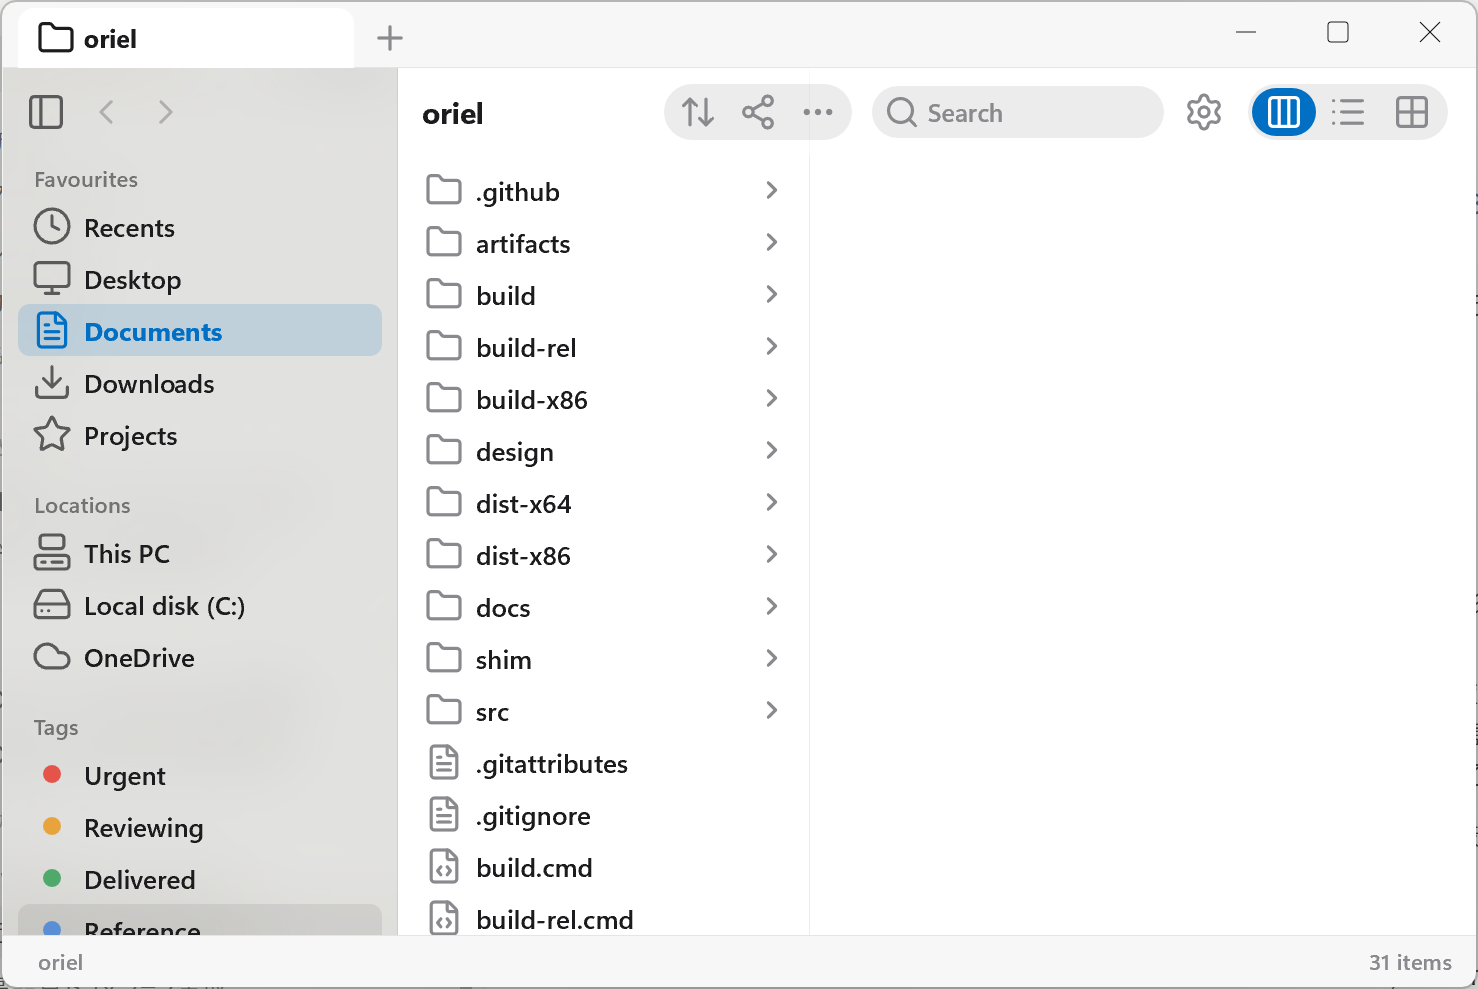
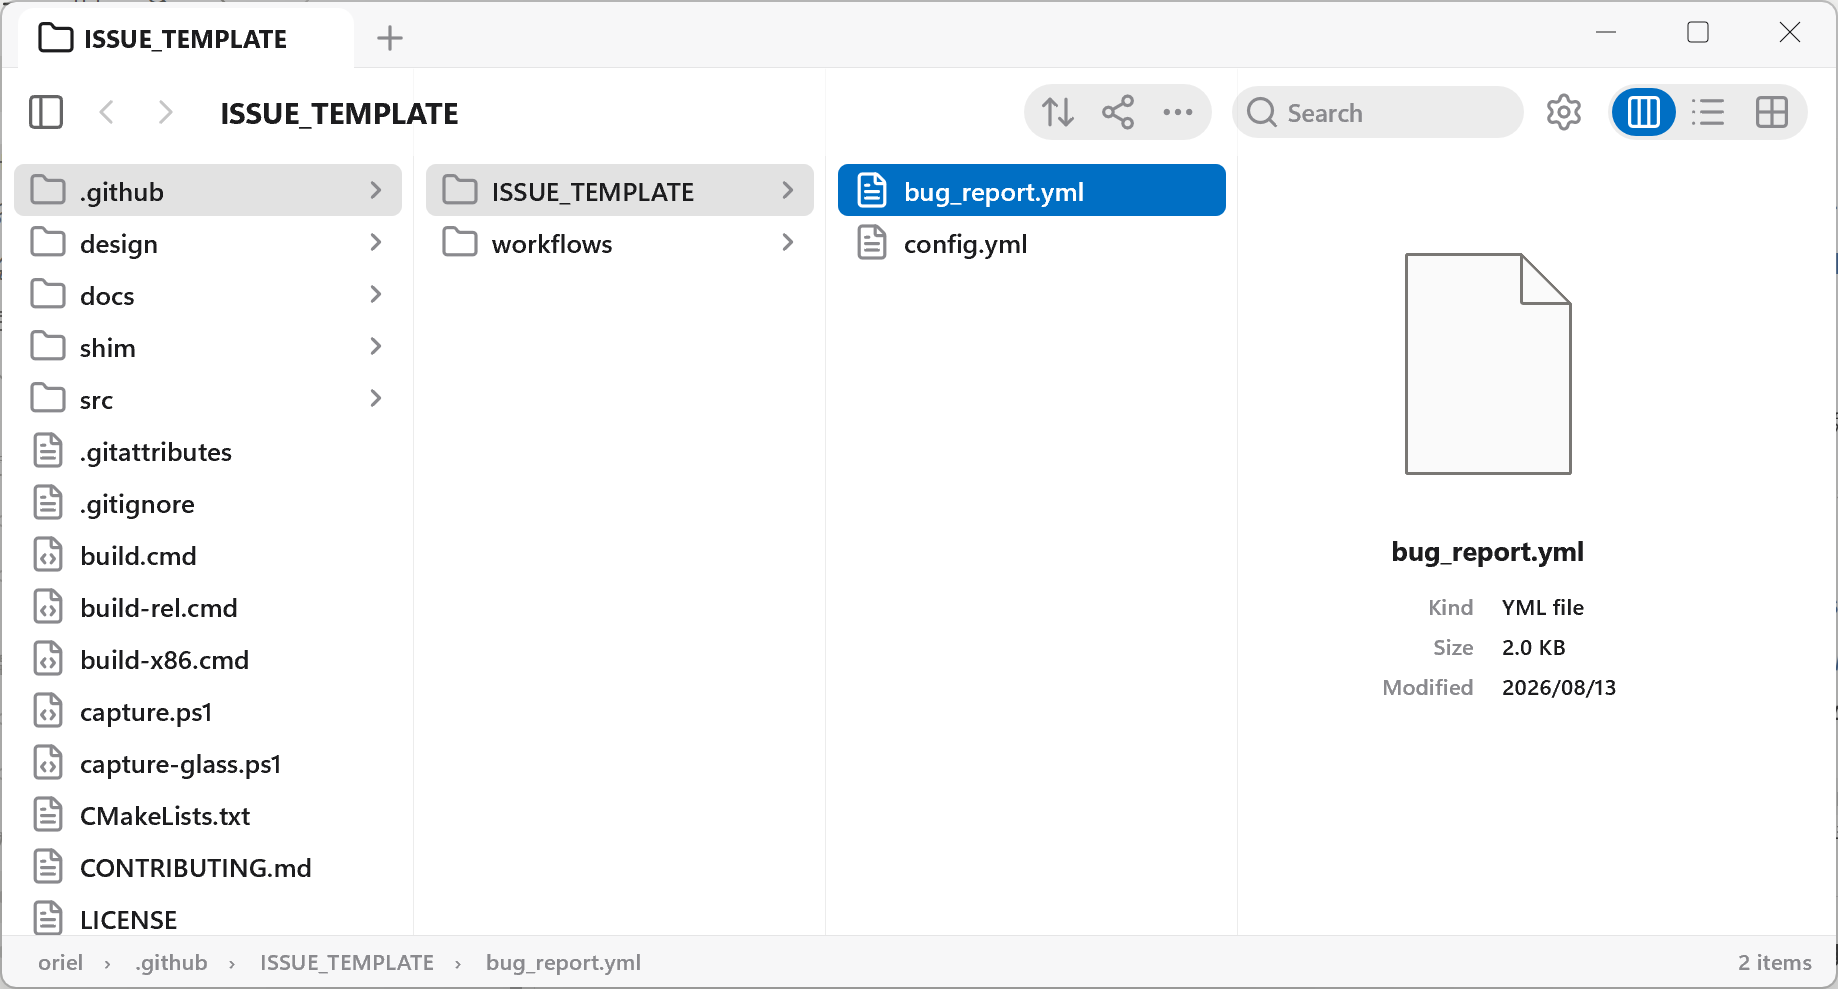
docs: shoot the column cascade the READMEs describe
The lead screenshot showed a sidebar, one column and empty space. Its alt
text claimed three columns and a preview pane, so the caption described a
picture that was not there — in a repository whose own rule is to report a
feature from the screen rather than from the source.

Reshot with the sidebar collapsed and three levels open, so the cascade and
the preview are actually visible, against a clean checkout rather than a
working tree full of build directories.

Japanese captures added for the Japanese README: the UI ships in both
languages, and the page that claims that may as well show it.

diff --git a/README.ja.md b/README.ja.md
@@ -9,7 +9,7 @@ English: **[README.md](README.md)**
 
 **[0.1.0 をダウンロード (Windows x64)](https://github.com/194754hs/oriel/releases/tag/v0.1.0)** — 展開して `oriel.exe` を実行。ファイラ側は何も登録しません。同梱のダイアログシムは `shim-control.ps1` を実行するまで不活性です（[先に読んでください](#ダイアログのシム)）。コード署名はありません。
 
-![カラム表示の Oriel。フォルダー・その中身・選択中ファイルの種類とサイズと変更日を出すプレビューの3カラムが並び、下部に辿ってきた経路がパンくずで出ている](docs/images/columns.png)
+![カラム表示の Oriel。リポジトリ直下・.github・ISSUE_TEMPLATE と、入るたびに右へカラムが開き、選択中ファイルの種類・サイズ・変更日を出すプレビューが続く。下部に辿ってきた経路がパンくずで出ている](docs/images/columns.ja.png)
 
 Oriel は Direct3D 11 / Direct2D / DirectComposition / DirectWrite に対して C++20 で書いた、ネイティブの Windows ファイラです。UIフレームワークは下に敷いていません。ウィンドウは枠なしで、その中の全ピクセルをアプリ自身がコンポジションサーフェス上に描くので、フレームの一部を本当に透過させてデスクトップの背景を通せます。
 
@@ -19,7 +19,7 @@ Oriel は Direct3D 11 / Direct2D / DirectComposition / DirectWrite に対して 
 
 各カラムが自分の選択・スクロール位置・複数選択のアンカーを持つので、片方をいじってももう片方で選んでいたものは崩れません。ファイルを選ぶと隣にプレビューが開き、辿ってきた経路が下端に並びます。
 
-![グリッド表示の Oriel。ファイルのサムネイルが格子状に並び、ツールバーに表示切り替えがある](docs/images/grid.png)
+![グリッド表示の Oriel。ファイルのサムネイルが格子状に並び、ツールバーに表示切り替えがある](docs/images/grid.ja.png)
 
 グリッド・リスト・カラムの3表示は同じモデルを共有していて、切り替えは状態ではなく見せ方だけが変わります。
 

diff --git a/README.md b/README.md
@@ -9,7 +9,7 @@
 
 **[Download 0.1.0 (Windows x64)](https://github.com/194754hs/oriel/releases/tag/v0.1.0)** — unzip, run `oriel.exe`. The file manager registers nothing; the dialog shim in the same archive is inert until you run `shim-control.ps1`, and [you should read that first](#the-dialog-shim). Nothing is code-signed.
 
-![Oriel in column view: three columns showing a folder, its contents, and a preview pane with the selected file's type, size and modified date, above a breadcrumb of the path taken](docs/images/columns.png)
+![Oriel in column view: the repository root, then .github, then ISSUE_TEMPLATE, each opening a new column to the right, with a preview pane giving the selected file's kind, size and modified date, and the path taken reading along the bottom](docs/images/columns.png)
 
 Oriel is a native Windows file manager written in C++20 against Direct3D 11,
 Direct2D, DirectComposition and DirectWrite. There is no UI framework
